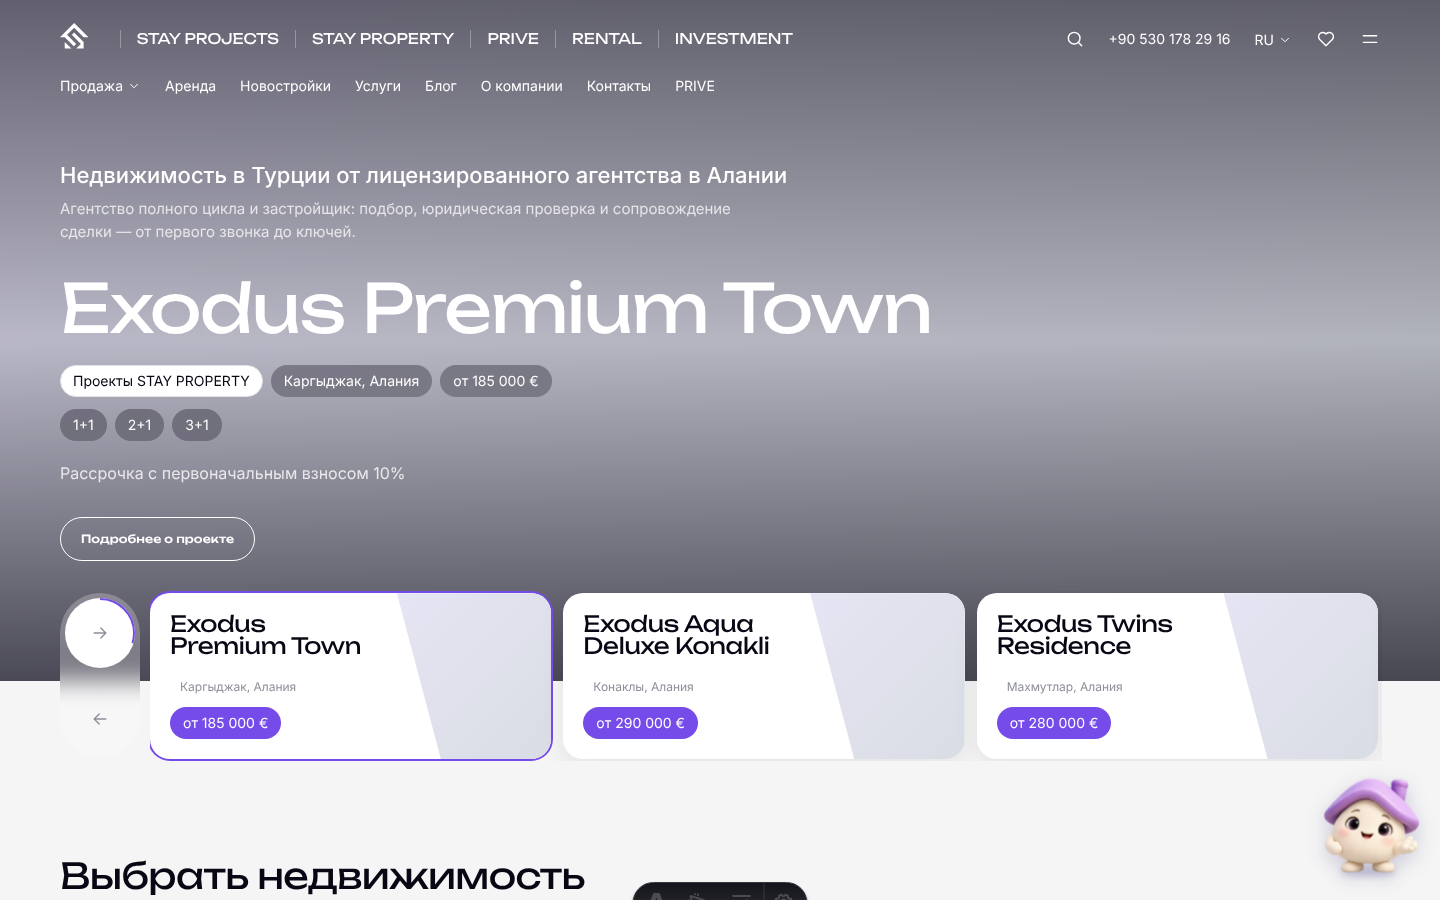
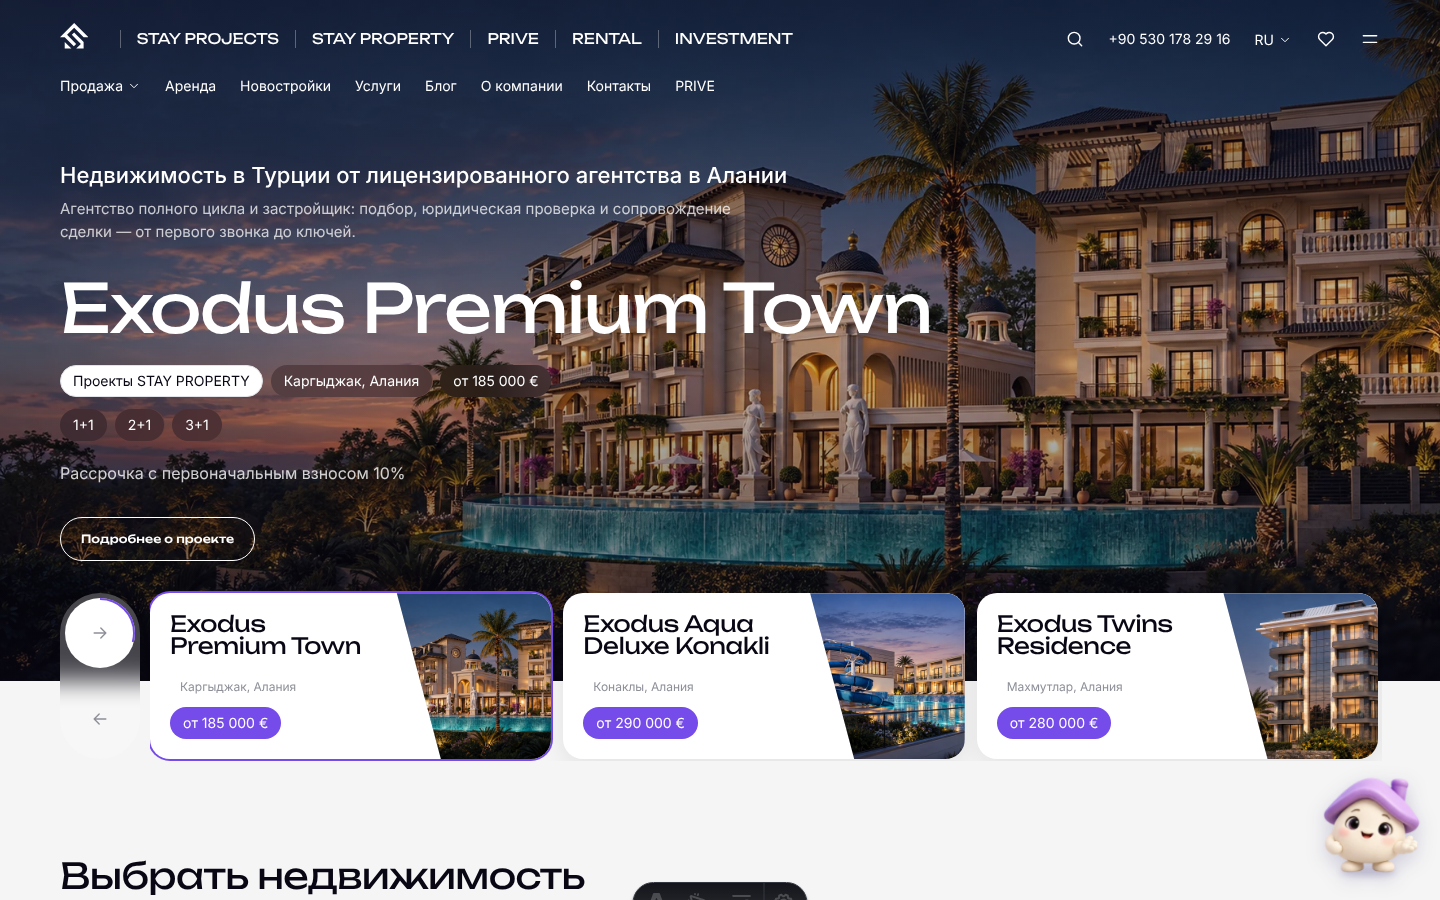
Home slider: processed photos for the four Exodus projects (public/hero), project photos in the base unchanged
Claude-Session: https://claude.ai/code/session_01MAfCgrq4FJKCRQbvbYTAjh

diff --git a/src/middleware.ts b/src/middleware.ts
@@ -11,7 +11,7 @@ import { DEFAULT_LANG, isLang, type Lang } from './i18n/config';
 import { legacyRedirect } from './lib/legacy';
 import { redirectFor } from './lib/seoConfig';
 
-const STATIC = /^\/(_astro|_vercel|favicon|mascot|fonts|images|api|admin|robots\.txt|sitemap|llms\.txt|og\/|og-default|logo\.png)/;
+const STATIC = /^\/(_astro|_vercel|favicon|mascot|hero\/|fonts|images|api|admin|robots\.txt|sitemap|llms\.txt|og\/|og-default|logo\.png)/;
 /** Карточка объекта или ЖК — адрес без слеша на конце. */
 const CARD = /\/(id\w+|complexes\/(?!page-\d+\/?$)[a-z0-9-]+)\/?$/;
 
